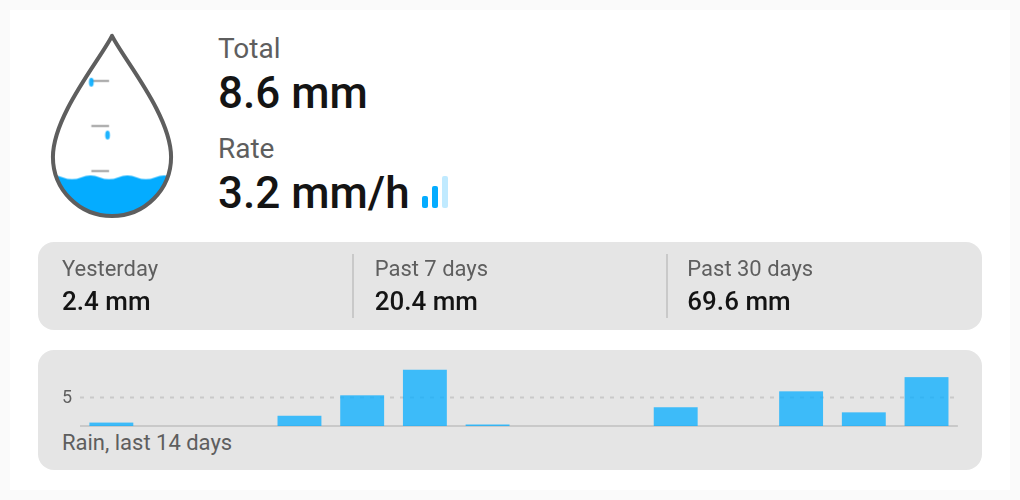
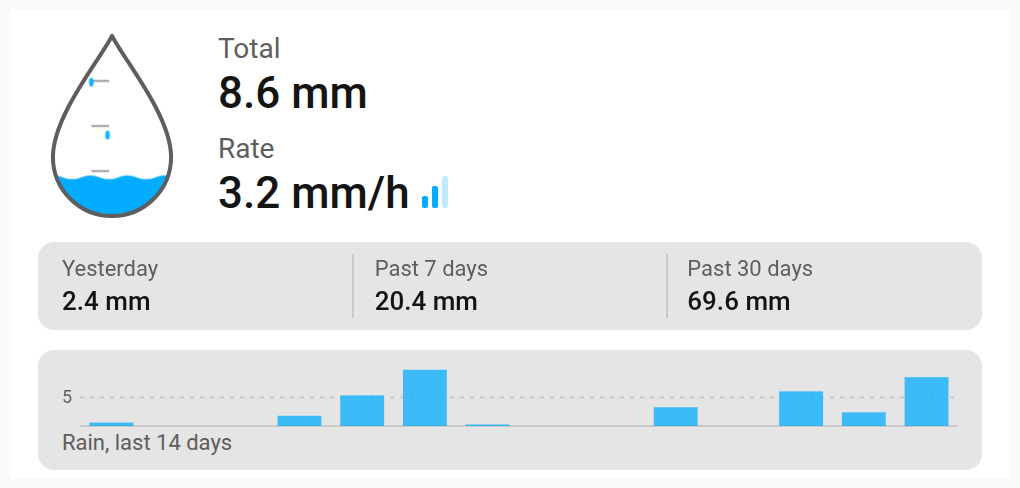
Keep the default rows' height with automatic rows, and give each chart exactly the row it asks for
In a sections view with automatic rows the card took its contents' height, which
left up to 60 px of its last row empty. It now takes the height of the rows it asks
for by default, two and one for each part.

A chart with its margin was 68 to 70 px against the 64 px row it asks for, so a
wide card without the totals came up a few pixels short and the fitting left a
chart out, even at its default rows. A 4 px margin under the charts at every width
makes each exactly a row.

diff --git a/src/compact-rain-gauge-card.ts b/src/compact-rain-gauge-card.ts
@@ -98,6 +98,8 @@ export function fitCard(content: HTMLElement): void {
 @customElement("compact-rain-gauge-card")
 export class CompactRainGaugeCard extends LitElement {
     @property({ attribute: false }) public hass?: HomeAssistant;
+    /** Set by the dashboard: "grid" in a sections view. */
+    @property({ attribute: false }) public layout?: string;
     @state() private config?: CompactRainGaugeCardConfig;
     /** The rain of recent days, from the recorder. Today's is replaced with the sensor's own state. */
     @state() private days?: DayAmount[];
@@ -326,7 +328,7 @@ export class CompactRainGaugeCard extends LitElement {
         return html`
             <ha-card
                 class=${tappable ? "tappable" : ""}
-                style=${this.colours()}
+                style=${[this.colours(), this.autoHeight()].filter(Boolean).join("; ")}
                 role=${tappable ? "button" : nothing}
                 tabindex=${tappable ? "0" : nothing}
                 aria-label=${[`${label} ${total}`, rate ? `${this.text("common.rate")} ${rate}` : "", showIntensity ? intensityText : ""]
@@ -500,6 +502,21 @@ export class CompactRainGaugeCard extends LitElement {
             styles.push(`--rain-gauge-outline-color: ${this.config.border_colour}`);
         }
         return styles.join("; ");
+    }
+
+    /**
+     * In a sections view whose rows are left automatic, the card takes the height of the rows it asks for by default
+     * (56 px each and the 8 px gaps between them) rather than its contents', which would leave part of its last row
+     * empty. Given a number of rows, it fills them, and in a masonry view its contents decide.
+     */
+    private autoHeight(): string {
+        const grid = this.config?.grid_options as { rows?: unknown } | undefined;
+        const older = this.config?.layout_options as { grid_rows?: unknown } | undefined;
+        const rows = grid ? grid.rows : older?.grid_rows;
+        if (this.layout !== "grid" || typeof rows === "number") {
+            return "";
+        }
+        return `height: ${(2 + this.parts()) * 64 - 8}px`;
     }
 
     private act(gesture: Gesture): void {
@@ -954,6 +971,12 @@ export class CompactRainGaugeCard extends LitElement {
                 .falling {
                     animation: none;
                 }
+            }
+
+            /* A chart is 60 px, so with this margin it takes exactly the 64 px row it asks for, at every width. A wider
+               margin left a wide card without the totals a few pixels short, and the fitting left the chart out. */
+            .content .chart {
+                margin-bottom: 4px;
             }
         `;
     }

diff --git a/dist/compact-rain-gauge-card.js b/dist/compact-rain-gauge-card.js
@@ -1812,7 +1812,7 @@ var CompactRainGaugeCard = class extends i4 {
     return b2`
             <ha-card
                 class=${tappable ? "tappable" : ""}
-                style=${this.colours()}
+                style=${[this.colours(), this.autoHeight()].filter(Boolean).join("; ")}
                 role=${tappable ? "button" : A}
                 tabindex=${tappable ? "0" : A}
                 aria-label=${[`${label} ${total}`, rate ? `${this.text("common.rate")} ${rate}` : "", showIntensity ? intensityText : ""].filter(Boolean).join(", ")}
@@ -1969,6 +1969,20 @@ var CompactRainGaugeCard = class extends i4 {
       styles.push(`--rain-gauge-outline-color: ${this.config.border_colour}`);
     }
     return styles.join("; ");
+  }
+  /**
+   * In a sections view whose rows are left automatic, the card takes the height of the rows it asks for by default
+   * (56 px each and the 8 px gaps between them) rather than its contents', which would leave part of its last row
+   * empty. Given a number of rows, it fills them, and in a masonry view its contents decide.
+   */
+  autoHeight() {
+    const grid = this.config?.grid_options;
+    const older = this.config?.layout_options;
+    const rows = grid ? grid.rows : older?.grid_rows;
+    if (this.layout !== "grid" || typeof rows === "number") {
+      return "";
+    }
+    return `height: ${(2 + this.parts()) * 64 - 8}px`;
   }
   act(gesture) {
     this.dispatchEvent(
@@ -2420,12 +2434,21 @@ var CompactRainGaugeCard = class extends i4 {
                     animation: none;
                 }
             }
+
+            /* A chart is 60 px, so with this margin it takes exactly the 64 px row it asks for, at every width. A wider
+               margin left a wide card without the totals a few pixels short, and the fitting left the chart out. */
+            .content .chart {
+                margin-bottom: 4px;
+            }
         `;
   }
 };
 __decorateClass([
   n4({ attribute: false })
 ], CompactRainGaugeCard.prototype, "hass", 2);
+__decorateClass([
+  n4({ attribute: false })
+], CompactRainGaugeCard.prototype, "layout", 2);
 __decorateClass([
   r5()
 ], CompactRainGaugeCard.prototype, "config", 2);

diff --git a/tests/card.test.ts b/tests/card.test.ts
@@ -211,6 +211,30 @@ describe("the size of the card", () => {
         expect(element.getGridOptions().rows).toBe(3);
     });
 
+    it.each([
+        ["automatic rows in a sections view", "grid", { grid_options: { rows: "auto" } }, "height: 248px"],
+        ["the older layout options' automatic rows in a sections view", "grid", { layout_options: { grid_rows: "auto" } }, "height: 248px"],
+        ["no rows given in a sections view", "grid", {}, "height: 248px"],
+        ["a number of rows in a sections view", "grid", { grid_options: { rows: 3 } }, ""],
+        ["a masonry view", undefined, { grid_options: { rows: "auto" } }, ""],
+    ])("is as tall as its own rows with %s, and otherwise fills the space it gets", async (_name, layout, extra, height) => {
+        const element = document.createElement("compact-rain-gauge-card") as CompactRainGaugeCard;
+        element.setConfig({
+            type: "custom:compact-rain-gauge-card",
+            entity: RAIN,
+            hourly_rate_entity: RATE,
+            show_daily_chart: true,
+            show_rate_chart: true,
+            ...extra,
+        } as never);
+        element.hass = hass();
+        element.layout = layout;
+        document.body.append(element);
+        await element.updateComplete;
+        const style = root(element).querySelector("ha-card")?.getAttribute("style") ?? "";
+        expect(style.split("; ").find((part) => part.startsWith("height")) ?? "").toBe(height);
+    });
+
     it("leaves out the rate chart first, then the daily one, then the extra totals, until the rest fits", () => {
         const { content } = layout({ card: 200, content: () => 300 - hidden() * 60 });
         fitCard(content);

diff --git a/README.md b/README.md
@@ -95,7 +95,8 @@ The card measures the space it gets and lays itself out to fit:
 
 The recent days and the charts go under the drop, across the card, each on a tile of its own. In a sections view the
 card starts at half the width and two rows, with a row more for the recent days and for each chart, and can be resized
-down to a quarter of the width and one row. When it is too low for everything, the rate chart is left out first, then
+down to a quarter of the width and one row. With its rows set to automatic it keeps that height, so it always fills
+whole rows, and every part fits it at any width. When it is too low for everything, the rate chart is left out first, then
 the daily bars, then the recent days, rather than squeezing the drop's figures out of their labels. The figures are
 never cut short. When they need the room, the drop gets narrower. Otherwise it keeps its shape, growing with the card's
 height and shrinking with it.
